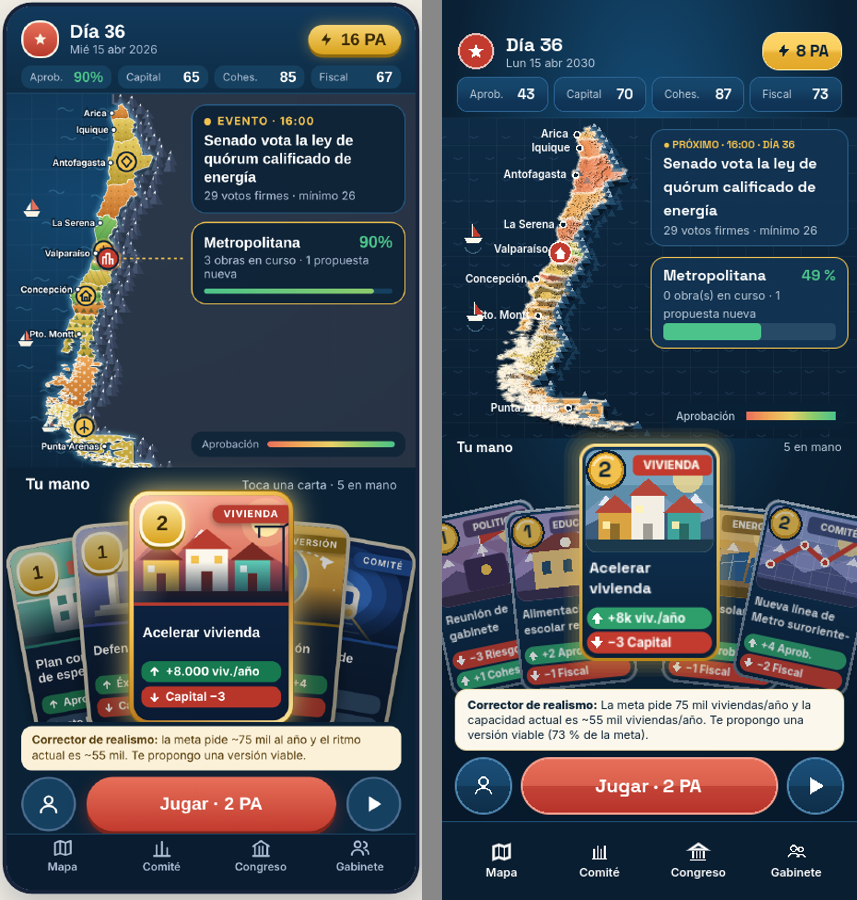
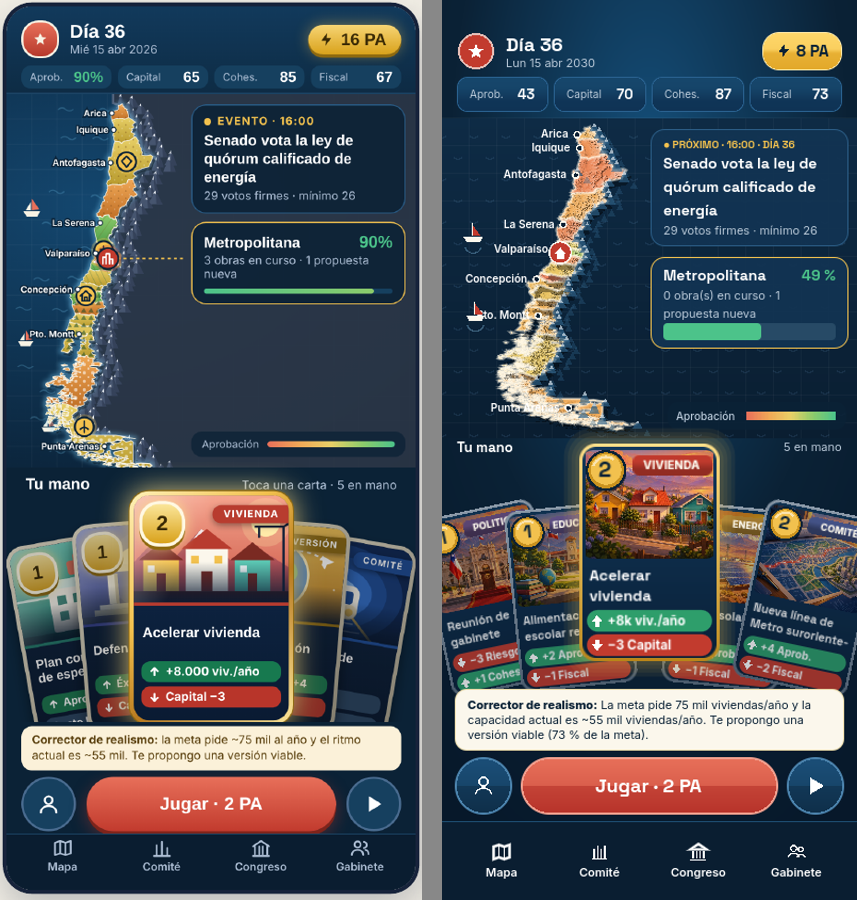
Arte pintado para las cartas: 14 ilustraciones generadas con IA, integradas con esquinas redondeadas y viñeta
- game/arte/cartas/*.jpg (una por categoría, 512x410, ~1 MB en total)
- CartaUI usa la ilustración si existe y mantiene el dibujo procedural como respaldo
- Créditos y docs/DATOS.md declaran el uso de IA

Claude-Session: https://claude.ai/code/session_015HWWmkEwJCj4FJzfaCJi9b

Changed region(s): [[0.5158, 0.4978, 1.0, 0.7778]]

diff --git a/docs/DATOS.md b/docs/DATOS.md
@@ -10,6 +10,7 @@ Todo dato real vive en `data/` y apunta a `data/fuentes.json` con enlace y fecha
 | Presupuesto, vivienda | DIPRES, MINVU | Ilustrativas (fecha de corte 2026-04-15). |
 | Eventos inventados | `ficticio_2026` | No representan hechos reales. |
 | Calles y relieve (Fase 2+) | OpenStreetMap (ODbL, vía Geofabrik) y Copernicus DEM GLO-30 | Pendiente; la atribución ya está en Créditos. |
+| Ilustraciones de cartas (`game/arte/cartas/*.jpg`) | Generadas con IA (modelo de imágenes de Figma, 2026-11-23) a partir de prompts propios; 14 categorías, 512×410 | Declarar el uso de IA en la ficha de Google Play. Algunas escenas incluyen la bandera chilena. Revisar derechos de uso comercial según los términos de Figma AI. Los prompts están en el historial del proyecto. |
 | Tipografías | Space Grotesk e Inter (SIL OFL 1.1) | Licencias en `game/fuentes/`. |
 
 Regenerar el mapa:
